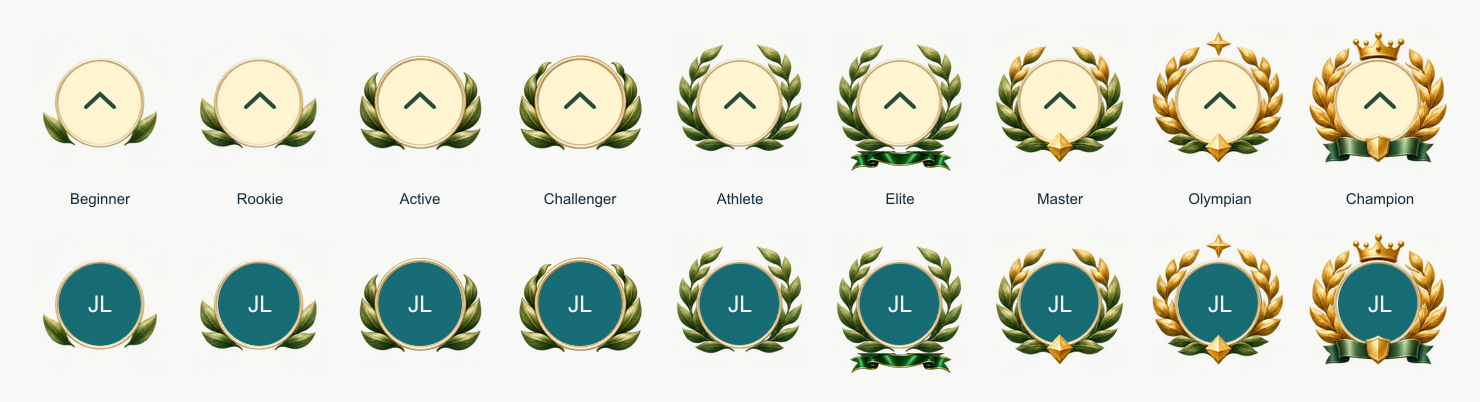
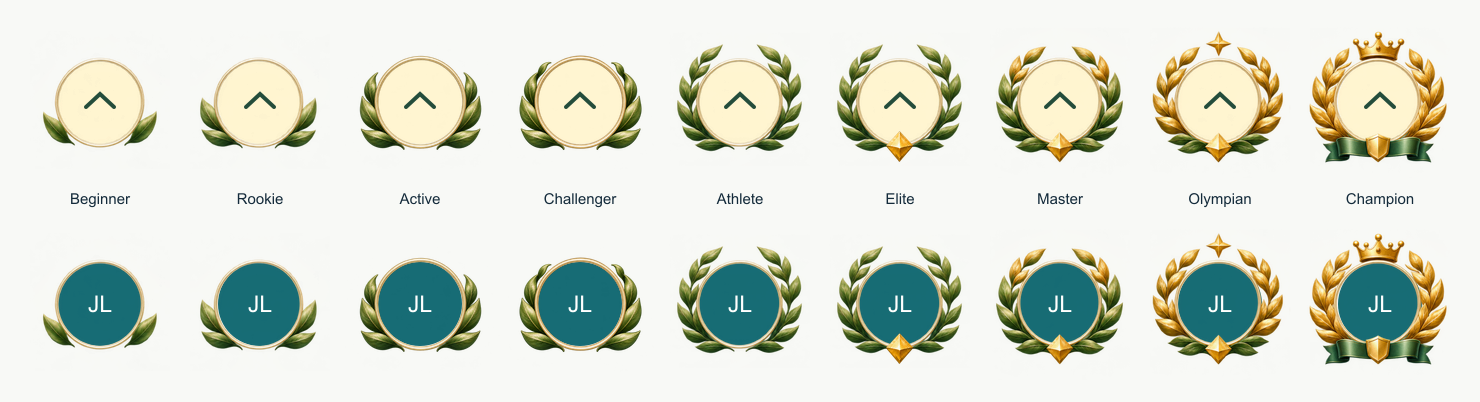
refine: replace Elite ribbon with Master gold jewel

Changed region(s): [[0.5595, 0.8358, 0.6527, 0.9254], [0.5595, 0.3284, 0.6527, 0.4179]]

diff --git a/docs/rank-symbols-prompt.md b/docs/rank-symbols-prompt.md
@@ -27,3 +27,15 @@ The built-in image tool edited individual assets using these constraints:
 All three generation calls requested true transparency, no text, no chevrons,
 no crown or jewel, and unchanged circular rim placement. The results were
 normalized to the shared portrait aperture and copied to both asset locations.
+
+
+## Elite symbol replacement
+
+Final edit: replace Elite’s green ribbon with the gold jewel from Master,
+retaining Athlete/Elite foliage unchanged. Built-in image tool prompt:
+
+> Extract ONLY the faceted gold diamond/star-shaped jewel at the bottom center of this supplied rank emblem. Preserve the jewel exactly: same silhouette, gold material, facets, size and placement within the original square canvas. Remove ALL green foliage, circular rim and everything else. Output the isolated original bottom gold diamond on a truly transparent canvas, with the same framing as the input. No redesign, no extra elements, no new star, no text.
+
+The extracted jewel is normalized to the original jewel’s footprint and composed
+over the unchanged Athlete wreath, which removes the ribbon without regenerating
+any foliage.

diff --git a/docs/rank-symbols.md b/docs/rank-symbols.md
@@ -4,8 +4,8 @@
 
 The nine visual identities follow the reference: Beginner, Rookie, Active,
 Challenger, Athlete, Elite, Master, Olympian and Champion. Beginner has one leaf per side, Rookie two, Active three and Challenger four.
-Athlete uses the fuller green wreath; Elite uses that same wreath with a ribbon.
-Master introduces gold and a faceted jewel,
+Athlete uses the fuller green wreath; Elite uses that same wreath with Master’s gold jewel beneath it.
+Master adds gold upper leaves,
 Olympian adds a star, and Champion finishes with a gold wreath and crown.
 
 ## Use on web or native
